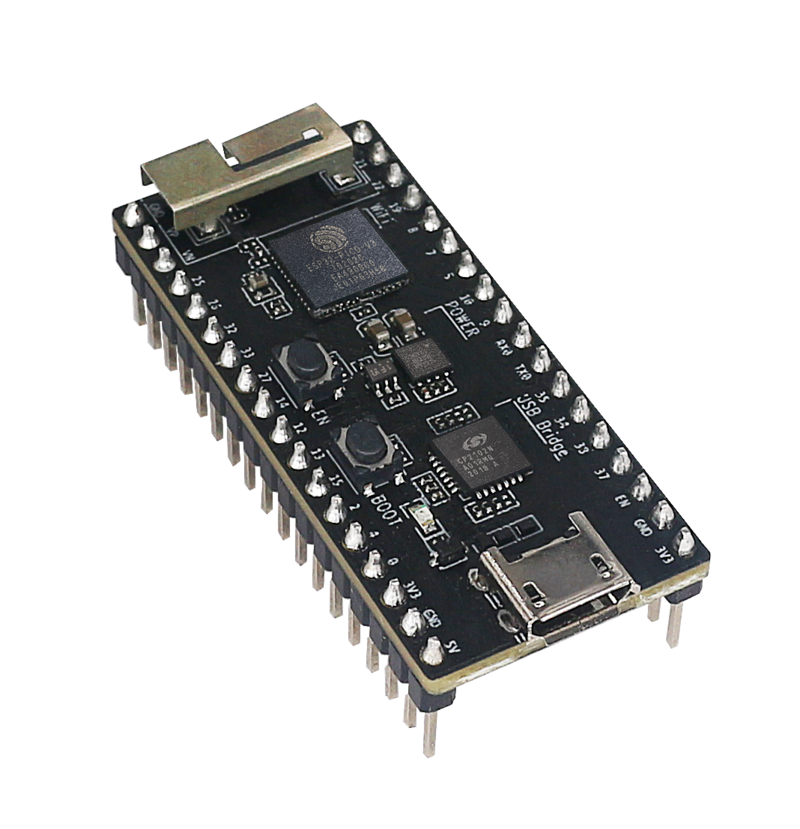
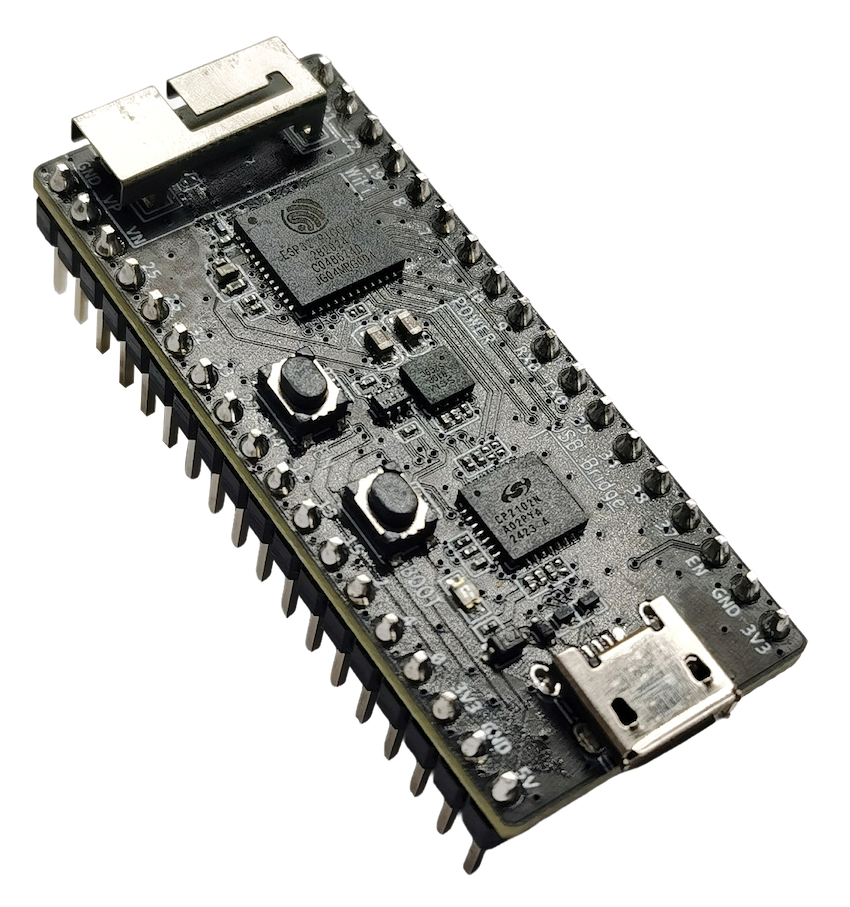
docs: Update figures for ESP32-DevKitC and ESP32-PICO-KIT-1

diff --git a/docs/en/esp32-devkitc/user_guide.rst b/docs/en/esp32-devkitc/user_guide.rst
@@ -12,7 +12,7 @@ What You Need
 -------------
 
 * :ref:`ESP32-DevKitC V4 board <get-started-esp32-devkitc-board-front>`
-* USB A/micro USB B cable
+* USB 2.0 cable (Standard-A to Micro-B)
 * Computer running Windows, Linux, or macOS
 
 You can skip the introduction sections and go directly to Section `Start Application Development`_.
@@ -39,7 +39,7 @@ To cover a wide range of user requirements, the following versions of ESP32-DevK
    - `ESP32-SOLO-1 <https://www.espressif.com/sites/default/files/documentation/esp32-solo-1_datasheet_en.pdf>`_
    - `ESP32-WROOM-32 <https://espressif.com/sites/default/files/documentation/esp32-wroom-32_datasheet_en.pdf>`_
 
-- male or female pin headers.
+- male or female pin headers
 
 For details please refer to `ESP Product Selector <https://products.espressif.com/#/product-selector?names=>`_.
 
@@ -51,33 +51,42 @@ The following figure and the table below describe the key components, interfaces
 
 .. _get-started-esp32-devkitc-board-front:
 
-.. figure:: ../../_static/esp32-devkitc/esp32-devkitc-v4-functional-overview.jpg
+.. figure:: ../../_static/esp32-devkitc/esp32-devkitc-v4-functional-overview.png
     :align: center
-    :alt: ESP32-DevKitC V4 with ESP-WROOM-32 module soldered
+    :alt: ESP32-DevKitC V4 with ESP-WROOM-32E module soldered
 
-    ESP32-DevKitC V4 with ESP32-WROOM-32 module soldered
+    ESP32-DevKitC V4 with ESP32-WROOM-32E module soldered
 
+The key components of the board are described, starting from the 5V Power On LED, in a clockwise direction.
 
 .. list-table::
-    :widths: 25 75
+    :widths: 10 20 70
     :header-rows: 1
 
-    * - Key Component
+    * - No.
+      - Key Component
       - Description
-    * - ESP32-WROOM-32
-      - A module with ESP32 at its core. For more information, see `ESP32-WROOM-32 Datasheet <https://www.espressif.com/sites/default/files/documentation/esp32-wroom-32_datasheet_en.pdf>`_.
-    * - EN
-      - Reset button.
-    * - Boot
-      - Download button. Holding down **Boot** and then pressing **EN** initiates Firmware Download mode for downloading firmware through the serial port.
-    * - USB-to-UART Bridge
-      - Single USB-UART bridge chip provides transfer rates of up to 3 Mbps.
-    * - Micro USB Port
-      - USB interface. Power supply for the board as well as the communication interface between a computer and the ESP32-WROOM-32 module.
-    * - 5V Power On LED
+    * - 1
+      - 5V Power On LED
       - Turns on when the USB or an external 5V power supply is connected to the board. For details see the schematics in `Related Documents`_.
-    * - I/O
+    * - 2
+      - I/O Connector
       - Most of the pins on the ESP module are broken out to the pin headers on the board. You can program ESP32 to enable multiple functions such as PWM, ADC, DAC, I2C, I2S, SPI, etc.
+    * - 3
+      - ESP32-WROOM-32E
+      - A module with ESP32 at its core. For more information, see `ESP32-WROOM-32E Datasheet <https://www.espressif.com/sites/default/files/documentation/esp32-wroom-32e_esp32-wroom-32ue_datasheet_en.pdf>`_.
+    * - 4
+      - USB-to-UART Bridge
+      - Single USB-to-UART bridge chip, providing transfer rates up to 3 Mbps.
+    * - 5
+      - Boot Button
+      - Download button. Holding down **Boot** and then pressing **EN** initiates Firmware Download mode for downloading firmware through the serial port.
+    * - 6
+      - USB-to-UART Port
+      - A Micro-USB port used for power supply to the board, as well as for communication between a computer and the ESP32-WROOM-32E module.
+    * - 7
+      - EN Button
+      - Reset button.
 
 
 Power Supply Options

diff --git a/docs/en/esp32-pico-kit-1/user_guide.rst b/docs/en/esp32-pico-kit-1/user_guide.rst
@@ -31,7 +31,7 @@ ESP32-PICO-KIT-1 provides the users with hardware for development of application
 
 .. figure:: ../../_static/esp32-pico-kit-1/esp32-pico-kit-1-overview.png
     :align: center
-    :scale: 70%
+    :scale: 50%
     :alt: ESP32-PICO-KIT-1 Overview
     :figclass: align-center
 
@@ -61,37 +61,45 @@ The following figure and the table below describe the key components, interfaces
 
 .. figure:: ../../_static/esp32-pico-kit-1/esp32-pico-kit-1-layout-front.png
     :align: center
-    :scale: 90%
+    :scale: 40%
     :alt: ESP32-PICO-KIT-1 - front
     :figclass: align-center
 
     ESP32-PICO-KIT-1 board layout - front (click to enlarge)
 
-
-Below is the description of the items identified in the figure starting from the top left corner and going clockwise.
+The key components of the board are described, starting from the ESP32-PICO-V3, in a clockwise direction.
 
 .. list-table::
-   :widths: 10 25
+   :widths: 10 20 70
    :header-rows: 1
 
-   * - Key Component
+   * - No.
+     - Key Component
      - Description
-   * - ESP32-PICO-V3
+   * - 1
+     - ESP32-PICO-V3
      - Standard ESP32-PICO-V3 module soldered to the ESP32-PICO-KIT-1 board. The complete ESP32 system on a chip (ESP32 SoC) has been integrated into the SiP module, requiring only an external antenna with LC matching network, decoupling capacitors, and a pull-up resistor for EN signals to function properly.
-   * - LDO
+   * - 2
+     - LDO
      - 5V-to-3.3V Low dropout voltage regulator (LDO).
-   * - USB-to-UART bridge
-     - CP2102N, single-chip USB-to-UART bridge that offers up to 3 Mbps transfers rates.
-   * - Micro USB Port
-     - USB interface. Power supply for the board as well as the communication interface between a computer and the board.
-   * - 5V Power On LED
+   * - 3
+     - USB-to-UART Bridge
+     - CP2102N, single USB-to-UART bridge chip, providing transfer rates up to 3 Mbps.
+   * - 4
+     - USB-to-UART Port
+     - A Micro-USB port used for power supply to the board, as well as for communication between a computer and the board.
+   * - 5
+     - 5V Power On LED
      - This red LED turns on when power is supplied to the board. For details, see the schematic in `Related Documents`_.
-   * - I/O Connector
-     - All the pins on ESP32-PICO-V3 are broken out to pin headers. You can program ESP32 to enable multiple functions, such as PWM, ADC, DAC, I2C, I2S, SPI, etc. For details, please see Section `Pin Descriptions`_.
-   * - BOOT Button
+   * - 6
+     - Boot Button
      - Download button. Holding down **Boot** and then pressing **EN** initiates Firmware Download mode for downloading firmware through the serial port.
-   * - EN Button
+   * - 7
+     - EN Button
      - Reset button.
+   * - 8
+     - I/O Connector
+     - All the pins on ESP32-PICO-V3 are broken out to pin headers. You can program ESP32 to enable multiple functions, such as PWM, ADC, DAC, I2C, I2S, SPI, etc. For details, please see Section `Pin Descriptions`_.
 
 
 Start Application Development
@@ -104,7 +112,7 @@ Required Hardware
 """""""""""""""""
 
 - 1 x ESP32-PICO-KIT-1
-- 1 x USB 2.0 A to Micro B cable
+- 1 x USB 2.0 cable (Standard-A to Micro-B)
 - 1 x Computer running Windows, Linux, or macOS
 
 

diff --git a/docs/zh_CN/esp32-devkitc/user_guide.rst b/docs/zh_CN/esp32-devkitc/user_guide.rst
@@ -12,7 +12,7 @@ ESP32-DevKitC V4
 -----------
 
 * :ref:`ESP32-DevKitC V4 开发板 <get-started-esp32-devkitc-board-front>`
-* USB A / micro USB B 数据线
+* USB 2.0 数据线（标准 A 型转 Micro-B 型）
 * PC（Windows、Linux 或 Mac OS）
 
 你可以跳过介绍部分，直接前往 `应用程序开发`_ 章节。
@@ -51,33 +51,42 @@ ESP32-DevKitC V4 开发板的主要组件、接口及控制方式见下。
 
 .. _get-started-esp32-devkitc-board-front:
 
-.. figure:: ../../_static/esp32-devkitc/esp32-devkitc-v4-functional-overview.jpg
+.. figure:: ../../_static/esp32-devkitc/esp32-devkitc-v4-functional-overview.png
     :align: center
-    :alt: ESP32-DevKitC V4（板载 ESP32-WROOM-32）
+    :alt: ESP32-DevKitC V4（板载 ESP32-WROOM-32E）
 
-    ESP32-DevKitC V4（板载 ESP32-WROOM-32）
+    ESP32-DevKitC V4（板载 ESP32-WROOM-32E）
 
+下面从 5V Power On LED 开始按照顺时针的顺序依次介绍开发板的主要组件。
 
 .. list-table::
-    :widths: 25 75
+    :widths: 10 20 70
     :header-rows: 1
 
-    * - 主要组件
-      - 基本介绍
-    * - ESP32-WROOM-32
-      - 基于 ESP32 的模组。更多详情，请见 `ESP32-WROOM-32 技术规格书 <https://www.espressif.com/sites/default/files/documentation/esp32-wroom-32_datasheet_cn.pdf>`_。
-    * - EN
-      - 复位按键。
-    * - Boot
-      - 下载按键。按下 **Boot** 键并保持，同时按一下 **EN** 键（此时不要松开 **Boot** 键）进入“固件下载”模式，通过串口下载固件。
-    * - USB-to-UART 桥接器
-      - 单芯片 USB-UART 桥接器，可提供高达 3 Mbps 的传输速率。
-    * -  Micro USB 接口。
-      - USB 接口，可用作电路板的供电电源，或连接 PC 和 ESP32-WROOM-32 模组的通信接口。
-    * - 5V Power On LED
+    * - 组件编号
+      - 主要组件
+      - 介绍
+    * - 1
+      - 5V Power On LED
       - 开发板通电后（USB 或外部 5 V），该指示灯将亮起。更多信息，请见 `相关文档`_ 中的原理图。
-    * - I/O
+    * - 2
+      - I/O Connector
       - 板上模组的绝大部分管脚均已引出至开发板的排针。用户可以对 ESP32 进行编程，实现 PWM、ADC、DAC、I2C、I2S、SPI 等多种功能。
+    * - 3
+      - ESP32-WROOM-32E
+      - 基于 ESP32 的模组。更多详情，请见 `ESP32-WROOM-32E 技术规格书 <https://www.espressif.com/sites/default/files/documentation/esp32-wroom-32e_esp32-wroom-32ue_datasheet_cn.pdf>`_。
+    * - 4
+      - USB-to-UART Bridge
+      - 单芯片 USB 至 UART 桥接器，可提供高达 3 Mbps 的传输速率。
+    * - 5
+      - Boot Button
+      - 下载按键。按下 **Boot** 键并保持，同时按一下 **EN** 键（此时不要松开 **Boot** 键）进入“固件下载”模式，通过串口下载固件。
+    * - 6
+      - USB-to-UART Port
+      - Micro-USB 接口，可用作开发板的供电接口，或连接 PC 和 ESP32-WROOM-32E 模组的通信接口。
+    * - 7
+      - EN Button
+      - 复位按键。
 
 
 电源选项

diff --git a/docs/en/esp32-devkitc/user_guide_v2.rst b/docs/en/esp32-devkitc/user_guide_v2.rst
@@ -11,7 +11,7 @@ What You Need
 -------------
 
 * :ref:`ESP32-DevKitC V2 board <get-started-esp32-devkitc-v2-board-front-make>`
-* USB A/micro USB B cable
+* USB 2.0 cable (Standard-A to Micro-B)
 * Computer running Windows, Linux, or macOS
 
 You can skip the introduction sections and go directly to Section `Start Application Development`_.

diff --git a/docs/zh_CN/esp32-devkitc/user_guide_v2.rst b/docs/zh_CN/esp32-devkitc/user_guide_v2.rst
@@ -12,7 +12,7 @@ ESP32-DevKitC V2
 --------
 
 * :ref:`ESP32-DevKitC V2 开发板 <get-started-esp32-devkitc-v2-board-front>`
-* USB A/micro USB B 数据线
+* USB 2.0 数据线（标准 A 型转 Micro-B 型）
 * PC（Windows、Linux 或 macOS）
 
 你可以跳过介绍部分，直接前往 `应用程序开发`_ 章节。
